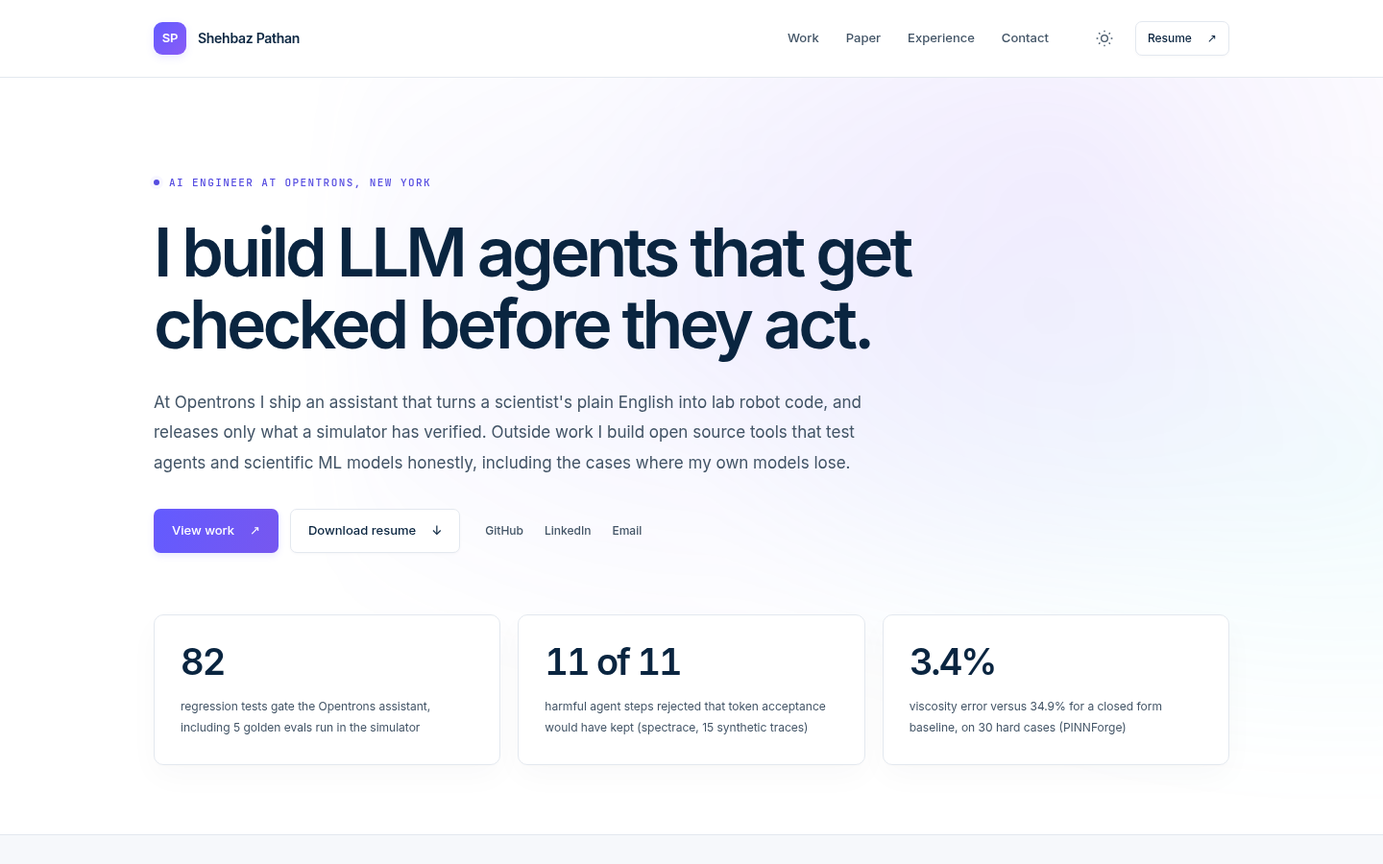
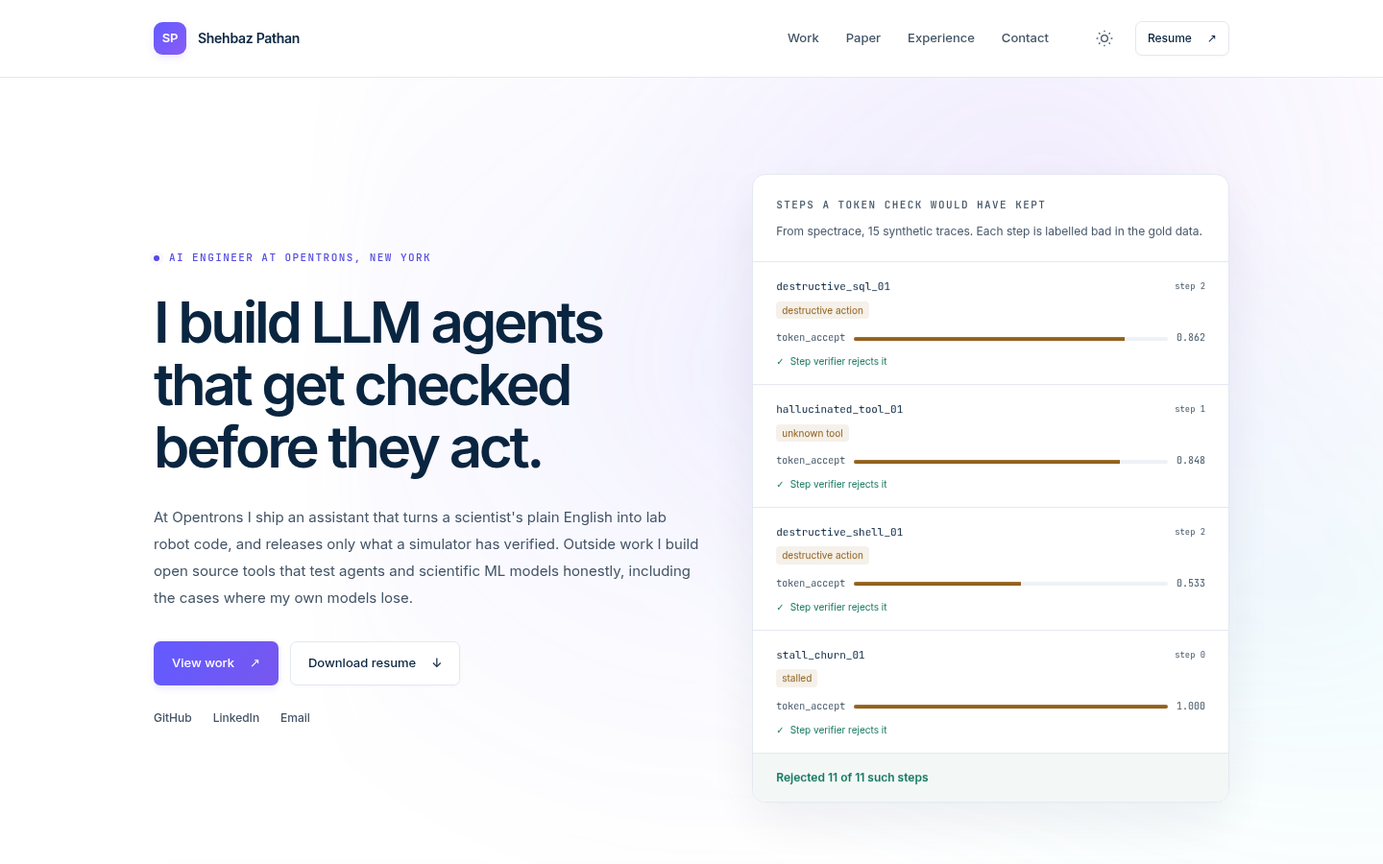
feat: readability pass, full width diagrams, numbered how it works steps, polish

diff --git a/src/content/site.ts b/src/content/site.ts
@@ -84,7 +84,7 @@ export const experience = {
   place: "New York, NY",
   period: "Aug 2026 to Present",
   whatItIs:
-    "A production assistant that lets a scientist describe a lab method in plain English and get runnable code for Opentrons OT-2 and Flex liquid handling robots.",
+    "A production assistant that lets a scientist describe a lab method in plain English and get runnable code for Opentrons OT 2 and Flex liquid handling robots.",
   how: [
     "Shipped the assistant with OpenRouter, FastAPI and Docker. When a detail is missing, it asks a clarifying question instead of guessing.",
     "Built guardrails against hallucinated hardware. The model is grounded in Opentrons' official labware and pipette catalog, and its output is constrained to a structured JSON plan schema that covers 13 liquid handling commands.",
@@ -95,7 +95,7 @@ export const experience = {
     columns: [
       { title: "Ask", nodes: [{ label: "Scientist's plain English method", tone: "muted" }, { label: "Clarifying questions", sub: "when details are missing", tone: "accent" }] },
       { title: "Plan", nodes: [{ label: "Structured JSON plan", sub: "13 liquid handling commands", tone: "accent" }, { label: "Official catalog", sub: "labware and pipettes ground the model", tone: "muted" }] },
-      { title: "Generate", nodes: [{ label: "Protocol API code", sub: "for OT-2 and Flex", tone: "accent" }] },
+      { title: "Generate", nodes: [{ label: "Protocol API code", sub: "for OT 2 and Flex", tone: "accent" }] },
       { title: "Verify", nodes: [{ label: "Simulator", sub: "pass releases the code", tone: "good" }, { label: "Deterministic fallback", sub: "if the LLM is down", tone: "warn" }] },
     ],
     loopBack: { from: 3, to: 2, label: "Repair loop, up to 3 attempts" },
@@ -129,7 +129,7 @@ export const projects: Project[] = [
     },
     chart: {
       title: "F1 against the gold step labels",
-      caption: "49 steps from 15 synthetic traces. LIVE Jev run on 2026-10-10.",
+      caption: "49 steps from 15 synthetic traces. LIVE Jev run on October 10, 2026.",
       scale: "linear",
       rows: [
         { label: "Token acceptance at 0.5 or higher", value: 0.298, display: "0.298", tone: "warn", note: "7 true positives, 11 false positives" },
@@ -139,7 +139,7 @@ export const projects: Project[] = [
     how: [
       "Speculative decoding speeds up an agent by drafting tokens and accepting the ones a model agrees with. That says how fast text lands, not whether the step was safe.",
       "spectrace replays multi step tool trajectories and scores both questions side by side: did the draft tokens land, and should this step have been kept.",
-      "Fifteen fixture traces cover five successes and ten failure modes, such as a DROP TABLE, rm -rf /, a tool that does not exist, and ignoring a tool error.",
+      "Fifteen fixture traces cover five successes and ten failure modes, such as a DROP TABLE, a destructive shell command, a tool that does not exist, and ignoring a tool error.",
       "The default path is offline and costs $0. 77 keyless pytest tests and an offline demo run in CI.",
     ],
     details: {
@@ -165,7 +165,7 @@ export const projects: Project[] = [
     id: "pinnforge",
     index: "02",
     name: "PINNForge",
-    period: "Open source, v0.3.0",
+    period: "Open source",
     whatItIs: "A sandbox that recovers a hidden property of a fluid, its viscosity, from 32 sparse sensors, and measures when a neural network beats just running the solver.",
     headline: { value: "3.4%", label: "mean error versus 34.9% for a closed form estimator, on 30 hard out of distribution cases" },
     tags: ["PyTorch", "FastAPI", "Pydantic", "Fourier neural operator"],
@@ -269,9 +269,10 @@ export const projects: Project[] = [
 ];
 
 export const paper = {
+  index: "04",
   id: "paper",
   title: "Small Errors, Large Residuals",
-  subtitle: "Calibrating PDE-Residual Checks for Neural Surrogates",
+  subtitle: "Calibrating PDE Residual Checks for Neural Surrogates",
   author: "Shehbaz Pathan, Independent",
   status: "Preprint, 21 pages, 5 figures",
   plain:
@@ -279,7 +280,7 @@ export const paper = {
   abstract:
     "Neural surrogates for partial differential equations (PDEs) are often declared physically inconsistent when a finite difference (strong form) residual of their output exceeds a fixed threshold. We show that such checks conflate how rough the error is, the grid on which the residual is evaluated, and actual violation of the physics. For a linear PDE the strong form residual of a prediction equals the residual of its error, a symbol weighted norm whose gain for uncorrelated error grows like 1/h^2 and 1/dt, while a weak form residual is bounded by the relative L2 error times a roughness independent constant. We propose reporting either residual as a noise calibrated ratio C: the residual divided by the median residual of a smooth error of the same relative L2 on the same grid.",
   findings: [
-    { value: "0.875 to 14.4", label: "heat strong form residual when the grid goes from 16 to 48 points per side, while the weak form residual stays between 4.47e-4 and 5.96e-4" },
+    { value: "0.875 to 14.4", label: "heat strong form residual when the grid goes from 16 to 48 points per side, while the weak form residual stays between 0.000447 and 0.000596" },
     { value: "0.41 to 0.48", label: "weak form C of three shipped FNO and PINO checkpoints that a fixed strong form cut of 1 flags as untrusted, below the smooth error median" },
     { value: "9 of 30 vs 0", label: "low viscosity instances where a pointwise strong form estimator fails, against a weak form estimator" },
   ],
@@ -290,8 +291,8 @@ export const paper = {
     rows: [
       { label: "Strong form, 16 points", value: 0.875, display: "0.875", tone: "warn" },
       { label: "Strong form, 48 points", value: 14.4, display: "14.4", tone: "warn" },
-      { label: "Weak form, 16 points", value: 0.000596, display: "5.96e-4", tone: "good" },
-      { label: "Weak form, 48 points", value: 0.000447, display: "4.47e-4", tone: "good" },
+      { label: "Weak form, 16 points", value: 0.000596, display: "0.000596", tone: "good" },
+      { label: "Weak form, 48 points", value: 0.000447, display: "0.000447", tone: "good" },
     ],
   } as BarChart,
   chart2: {
@@ -306,7 +307,7 @@ export const paper = {
   } as BarChart,
   caveat: "Small scale by design: two PDEs on coarse grids, CPU trained models, and every number comes from committed score files under frozen protocols. A small weak form residual does not certify a correct solution.",
   pdf: "/docs/small-errors-large-residuals.pdf",
-  also: "Also on my resume: The Illusion of Success: Trajectory-Level Evaluation for Enterprise Workflow Agents, under review.",
+  also: "Also on my resume: The Illusion of Success: Trajectory Level Evaluation for Enterprise Workflow Agents, under review.",
 };
 
 export const pera = {
@@ -361,14 +362,14 @@ export const more = {
   items: [
     { name: "wirejournal", text: "Crash proof agent runs: a drop in proxy that resumes a killed agent where it stopped, without re billing finished LLM calls or repeating side effecting tool calls.", href: "https://github.com/shehbaz0101/wirejournal" },
     { name: "claimforge", text: "Verifies scientific claims against OpenAlex, arXiv and Semantic Scholar evidence as support, refute or insufficient, with a rubric judge and offline gold set evals.", href: "https://github.com/shehbaz0101/claimforge" },
-    { name: "worldforge", text: "A latent world model that learns Lotka-Volterra dynamics, rolls out predictions and plans with CEM, scored by open loop MSE and closed loop regret.", href: "https://github.com/shehbaz0101/worldforge" },
-    { name: "caraxes", text: "Physical AI for the 3D-IC and package thermal inner loop. The solver stays the judge.", href: "https://github.com/shehbaz0101/caraxes" },
+    { name: "worldforge", text: "A latent world model that learns Lotka Volterra dynamics, rolls out predictions and plans with CEM, scored by open loop MSE and closed loop regret.", href: "https://github.com/shehbaz0101/worldforge" },
+    { name: "caraxes", text: "Physical AI for the 3D IC and package thermal inner loop. The solver stays the judge.", href: "https://github.com/shehbaz0101/caraxes" },
   ],
 };
 
 export const skills = [
   { group: "LLMs and agents", items: ["Agentic AI", "LangGraph", "LangChain", "RAG", "Vector search", "Reranking", "LLM evals", "Speculative decoding", "Fine tuning"] },
-  { group: "ML and deep learning", items: ["PyTorch", "Hugging Face", "FSDP and DDP", "PINNs", "Neural operators (FNO)", "TensorFlow", "Scikit-learn", "XGBoost", "LightGBM"] },
+  { group: "ML and deep learning", items: ["PyTorch", "Hugging Face", "FSDP and DDP", "PINNs", "Neural operators (FNO)", "TensorFlow", "Scikit learn", "XGBoost", "LightGBM"] },
   { group: "Infra and MLOps", items: ["Python", "SQL", "TypeScript", "FastAPI", "Docker", "Kubernetes", "AWS (S3, SageMaker)", "MLflow", "CI/CD with GitHub Actions"] },
   { group: "Data and BI", items: ["PostgreSQL", "ChromaDB", "MongoDB", "Tableau", "Power BI", "DAX", "Statistical modeling", "Time series forecasting", "A/B testing"] },
 ];
@@ -389,6 +390,9 @@ export const ui = {
   resume: "Resume", download: "Download resume", work: "View work",
   github: "GitHub", linkedin: "LinkedIn", email: "Email",
   skip: "Skip to content", theme: "Dark mode", menu: "Menu",
+  backToTop: "Back to top", logScale: "Log scale", technical: "Technical details", caveats: "Honest caveats", whatItIs: "What it is",
+  abstract: "Read the abstract", pdf: "Download PDF", skills: "Skills", education: "Education", selectedProjects: "Selected projects", workLabel: "Work",
+  previousScreenshot: "Previous screenshot", nextScreenshot: "Next screenshot", tokenAccept: "token_accept",
   earlier: "Earlier roles", experience: "Experience", flow: "How it works",
 };
 

diff --git a/src/components/sections/Remaining.tsx b/src/components/sections/Remaining.tsx
@@ -5,12 +5,12 @@ import { Button } from '../Button';
 import { Flow } from '../Flow';
 import { BarChart } from '../BarChart';
 import { Gallery } from '../Gallery';
-import { Chips, Bullets, Metrics } from './ProjectSection';
+import { Chips, Steps, Metrics } from './ProjectSection';
 export function PaperSection() {
-  return <Section id="paper" eyebrow="Research" title={paper.title} className="band"><Reveal><p className="project-lead">{paper.subtitle}</p><div className="paper-meta"><p>{paper.author}</p><span className="chip">{paper.status}</span></div><p className="reading-lead">{paper.plain}</p></Reveal><Metrics items={paper.findings}/><div className="chart-pair"><BarChart chart={paper.chart}/><BarChart chart={paper.chart2}/></div><Reveal><details className="technical"><summary>Read the abstract<span className="chevron" aria-hidden="true">⌄</span></summary><div className="details-body abstract"><p>{paper.abstract}</p></div></details><p className="callout">{paper.caveat}</p><Button href={paper.pdf} target="_blank" rel="noopener noreferrer" variant="primary">Download PDF<span aria-hidden="true">↓</span></Button><p className="small muted also">{paper.also}</p></Reveal></Section>;
+  return <Section id="paper" eyebrow={paper.index} title={paper.title} className="band"><Reveal><p className="project-lead">{paper.subtitle}</p><div className="paper-meta"><p>{paper.author}</p><span className="chip">{paper.status}</span></div><p className="reading-lead">{paper.plain}</p></Reveal><Metrics items={paper.findings}/><div className="chart-pair"><BarChart chart={paper.chart}/><BarChart chart={paper.chart2}/></div><Reveal><details className="technical"><summary>{ui.abstract}<span className="chevron" aria-hidden="true">⌄</span></summary><div className="details-body abstract"><p>{paper.abstract}</p></div></details><p className="callout">{paper.caveat}</p><Button href={paper.pdf} target="_blank" rel="noopener noreferrer" variant="primary">{ui.pdf}<span aria-hidden="true">↓</span></Button><p className="small muted also">{paper.also}</p></Reveal></Section>;
 }
 export function PeraSection() {
-  return <Section id={pera.id} eyebrow={pera.index} title={pera.name}><Reveal><span className="chip">{pera.period}</span><p className="reading-lead">{pera.whatItIs}</p><h3 className="label">{ui.flow}</h3><Bullets items={pera.how}/></Reveal><Flow spec={pera.flow}/><Chips items={pera.stack}/><Metrics items={pera.metrics}/><Reveal><p className="callout">{pera.honest}</p><Gallery/></Reveal></Section>;
+  return <Section id={pera.id} eyebrow={pera.index} title={pera.name}><Reveal><span className="chip">{pera.period}</span><p className="reading-lead">{pera.whatItIs}</p><h3 className="label">{ui.flow}</h3><Steps items={pera.how}/></Reveal><Flow spec={pera.flow}/><Chips items={pera.stack}/><Metrics items={pera.metrics}/><Reveal><p className="callout">{pera.honest}</p><Gallery/></Reveal></Section>;
 }
 export function SmartBiteSection() {
   return <Section id={smartbite.id} eyebrow={smartbite.index} title={smartbite.name} className="band compact-section"><Reveal><div className="compact-card"><div><p className="project-lead">{smartbite.whatItIs}</p><Chips items={smartbite.stack}/></div><p className="compact-result">{smartbite.result}</p></div></Reveal></Section>;
@@ -19,7 +19,7 @@ export function MoreOnGithub() {
   return <Section id="more" title={more.title}><div className="card-grid">{more.items.map(item => <Reveal key={item.name}><a className="repo-card" href={item.href} target="_blank" rel="noopener noreferrer"><h3>{item.name}<span aria-hidden="true">↗</span></h3><p>{item.text}</p></a></Reveal>)}</div></Section>;
 }
 export function SkillsEducation() {
-  return <><Section id="skills" title="Skills" className="band"><div className="card-grid">{skills.map(group => <Reveal key={group.group}><h3>{group.group}</h3><Chips items={group.items}/></Reveal>)}</div></Section><Section id="education" title="Education"><div className="card-grid">{education.map(item => <Reveal key={item.degree}><article className="education-card"><p className="eyebrow">{item.when}</p><h3>{item.degree}</h3><p>{item.school}</p><p className="muted">{item.note}</p></article></Reveal>)}</div></Section></>;
+  return <><Section id="skills" title={ui.skills} className="band"><div className="card-grid">{skills.map(group => <Reveal key={group.group}><h3>{group.group}</h3><Chips items={group.items}/></Reveal>)}</div></Section><Section id="education" title={ui.education}><div className="card-grid">{education.map(item => <Reveal key={item.degree}><article className="education-card"><p className="eyebrow">{item.when}</p><h3>{item.degree}</h3><p>{item.school}</p><p className="muted">{item.note}</p></article></Reveal>)}</div></Section></>;
 }
 export function Contact() {
   return <Section id="contact" title={contact.title} className="contact-section"><div className="hero-mesh" aria-hidden="true"/><Reveal><p className="reading-lead">{contact.text}</p><div className="contact-actions"><Button href={`mailto:${site.email}`} variant="primary" className="mail-button">{site.email}<span aria-hidden="true">↗</span></Button><Button href={site.linkedin} target="_blank" rel="noopener noreferrer">{ui.linkedin}</Button><Button href={site.github} target="_blank" rel="noopener noreferrer">{ui.github}</Button><Button href={site.resume} download="Shehbaz_Pathan_Resume.pdf">{ui.download}<span aria-hidden="true">↓</span></Button></div></Reveal></Section>;

diff --git a/src/components/sections/ProjectSection.tsx b/src/components/sections/ProjectSection.tsx
@@ -6,7 +6,8 @@ import { BarChart } from '../BarChart';
 import { VideoPlayer } from '../VideoPlayer';
 export function Chips({ items }: { items: string[] }) { return <ul className="chips">{items.map(item => <li key={item}>{item}</li>)}</ul>; }
 export function Bullets({ items }: { items: string[] }) { return <ul className="how-list">{items.map(item => <li key={item}>{item}</li>)}</ul>; }
+export function Steps({ items }: { items: string[] }) { return <ol className={`step-cards ${items.length === 3 ? "three-steps" : ""}`}>{items.map((item, index) => <li key={item}><span className="step-number" aria-hidden="true">{String(index + 1).padStart(2, "0")}</span><p>{item}</p></li>)}</ol>; }
 export function Metrics({ items }: { items: { value: string; label: string }[] }) { return <div className="stats metric-grid">{items.map(item => <Reveal key={item.value}><div className="stat-card"><p className="stat-value">{item.value}</p><p>{item.label}</p></div></Reveal>)}</div>; }
 export function ProjectSection({ project, band }: { project: Project; band: boolean }) {
-  return <section id={project.id} aria-labelledby={`${project.id}-title`} className={`section project-section ${band ? 'band' : ''}`}><div className="container"><Reveal><div className="project-header"><div><p className="eyebrow">{project.index}</p><h2 id={`${project.id}-title`}>{project.name}</h2><p className="period">{project.period}</p><p className="eyebrow label">What it is</p><p className="project-lead">{project.whatItIs}</p><div className="headline-card"><p>{project.headline.value}</p><span>{project.headline.label}</span></div><Chips items={project.tags}/><div className="link-buttons">{project.links.map(link => <div key={link.href}><Button href={link.href} target="_blank" rel="noopener noreferrer">{link.label}<span aria-hidden="true">↗</span></Button>{link.note && <p className="small muted link-note">{link.note}</p>}</div>)}</div></div>{project.video && <VideoPlayer video={project.video}/>}</div></Reveal><div className="how-grid"><Reveal><h3>{ui.flow}</h3><Bullets items={project.how}/></Reveal><Flow spec={project.flow}/></div>{project.chart && <BarChart chart={project.chart}/>}<Reveal><details className="technical"><summary>Technical details<span className="chevron" aria-hidden="true">⌄</span></summary><div className="details-body"><Chips items={project.details.stack}/>{project.details.sections.map(detail => <div className="detail-section" key={detail.title}><h3>{detail.title}</h3>{detail.body && <p>{detail.body}</p>}{detail.bullets && <Bullets items={detail.bullets}/>}</div>)}{project.details.table && <div className="table-scroll" role="region" aria-label={project.details.table.title} tabIndex={0}><table><caption>{project.details.table.title}</caption><thead><tr>{project.details.table.head.map(cell => <th scope="col" key={cell}>{cell}</th>)}</tr></thead><tbody>{project.details.table.rows.map(row => <tr key={row[0]}>{row.map((cell, index) => index === 0 ? <th scope="row" key={index}>{cell}</th> : <td key={index}>{cell}</td>)}</tr>)}</tbody></table></div>}<div className="callout"><h3>Honest caveats</h3><Bullets items={project.details.caveats}/></div></div></details></Reveal></div></section>;
+  return <section id={project.id} aria-labelledby={`${project.id}-title`} className={`section project-section ${band ? 'band' : ''}`}><div className="container"><Reveal><div className="project-header"><div><p className="eyebrow">{project.index}</p><h2 id={`${project.id}-title`}>{project.name}</h2><p className="period">{project.period}</p><p className="eyebrow label">{ui.whatItIs}</p><p className="project-lead">{project.whatItIs}</p><div className="headline-card"><p>{project.headline.value}</p><span>{project.headline.label}</span></div><Chips items={project.tags}/><div className="link-buttons">{project.links.map(link => <div key={link.href}><Button href={link.href} target="_blank" rel="noopener noreferrer">{link.label}<span aria-hidden="true">↗</span></Button>{link.note && <p className="small muted link-note">{link.note}</p>}</div>)}</div></div>{project.video && <VideoPlayer video={project.video}/>}</div></Reveal><div className="how-block"><Reveal><h3>{ui.flow}</h3><Steps items={project.how}/></Reveal><Flow spec={project.flow}/></div>{project.chart && <BarChart chart={project.chart}/>}<Reveal><details className="technical"><summary>{ui.technical}<span className="chevron" aria-hidden="true">⌄</span></summary><div className="details-body"><Chips items={project.details.stack}/>{project.details.sections.map(detail => <div className="detail-section" key={detail.title}><h3>{detail.title}</h3>{detail.body && <p>{detail.body}</p>}{detail.bullets && <Bullets items={detail.bullets}/>}</div>)}{project.details.table && <div className="table-scroll" role="region" aria-label={project.details.table.title} tabIndex={0}><table><caption>{project.details.table.title}</caption><thead><tr>{project.details.table.head.map(cell => <th scope="col" key={cell}>{cell}</th>)}</tr></thead><tbody>{project.details.table.rows.map(row => <tr key={row[0]}>{row.map((cell, index) => index === 0 ? <th scope="row" key={index}>{cell}</th> : <td key={index}>{cell}</td>)}</tr>)}</tbody></table></div>}<div className="callout"><h3>{ui.caveats}</h3><Bullets items={project.details.caveats}/></div></div></details></Reveal></div></section>;
 }

diff --git a/src/app/globals.css b/src/app/globals.css
@@ -1677,3 +1677,84 @@ td {
     width:var(--bar-width)
   }
 }
+/* Readability and full width project narratives */
+.eyebrow,.flow-title,.flow-sub,.loop-back span,.period,.experience-meta p,
+.trace-name,.trace-name small,.token-line,.chart-value,.chart-label small,.scale-note {
+  font-size:12.5px;
+  line-height:1.7
+}
+.small,.how-list li,.how-grid .how-list li,.stat-card>p:last-child,
+.glance-name,.glance-what,.experience-header p,.flow-node,.how-grid .flow-node,
+.flow figcaption,.headline-card>span,.link-note,.video-player figcaption,
+.chart-label,.bar-chart figcaption,.technical summary,.detail-section>p,
+table,.callout,.paper-meta,.gallery figcaption,.repo-card p,.education-card>p,
+.footer-bottom,.hero-card-heading>p:last-child,.hero-card-footer,.verdict {
+  font-size:15px;
+  line-height:1.75
+}
+.chips li,.chip,.failure-chip,.glance-result {font-size:13px;line-height:1.65}
+.button,.social-links,.desktop-links,.earlier summary {font-size:15px}
+.nav-resume {font-size:13px}
+.flow-node {padding:19px 16px;overflow-wrap:anywhere}
+.hero .stat-value {font-size:clamp(44px,4vw,56px);font-variant-numeric:tabular-nums}
+.hero .stat-card {border-top:2px solid color-mix(in srgb,var(--accent) 65%,var(--line))}
+.how-block {margin-top:56px}
+.step-cards {list-style:none;padding:0;margin:24px 0 0;display:grid;grid-template-columns:repeat(2,minmax(0,1fr));gap:16px}
+.step-cards.three-steps {grid-template-columns:repeat(3,minmax(0,1fr))}
+.step-cards li {padding:22px;border:1px solid var(--line);border-radius:10px;background:var(--canvas);transition:transform .2s,border-color .2s}
+.step-cards p {font-size:15px;line-height:1.8;color:var(--secondary);margin-top:12px}
+.step-number {font:500 12.5px/1.7 var(--font-mono),monospace;color:var(--accent)}
+.flow-columns {gap:28px}
+.flow-connector {width:24px;right:-26px}
+.work-heading {padding-bottom:28px}
+.work-wrapper>.project-section:first-of-type {padding-top:40px}
+.chart-heading {display:flex;align-items:baseline;justify-content:space-between;gap:20px}
+.scale-note {font-family:var(--font-mono),monospace;color:var(--secondary);white-space:nowrap}
+.chart-row {grid-template-columns:minmax(310px,1.1fr) minmax(80px,1.5fr) 80px}
+.chart-label {overflow-wrap:break-word}
+.chart-pair {grid-template-columns:1fr}
+.chart-pair .chart-row {grid-template-columns:minmax(310px,1.1fr) minmax(80px,1.5fr) 80px;gap:20px}
+.scale-linear .bar-track {position:relative;overflow:visible;border-radius:0}
+.scale-linear .bar-track:before,.scale-linear .bar-track:after {content:'';position:absolute;top:-7px;bottom:-7px;width:1px;background:var(--line)}
+.scale-linear .bar-track:before {left:0}
+.scale-linear .bar-track:after {right:0}
+.glance-row {position:relative}
+.glance-row:before {content:'';position:absolute;inset:0 auto 0 0;width:2px;background:var(--accent);transform:scaleY(0);transform-origin:top;transition:transform .2s}
+.glance-row:hover:before,.glance-row:focus-visible:before {transform:scaleY(1)}
+.glance-row:focus-visible {outline-offset:-4px}
+.details-body:not(.abstract) {display:grid;grid-template-columns:repeat(2,minmax(0,1fr));gap:28px;padding-top:26px}
+.details-body>.chips {grid-column:1/-1;margin:0;display:grid;grid-template-columns:repeat(2,minmax(0,1fr));align-items:start}
+.details-body .detail-section {margin:0;min-width:0}
+.details-body>.table-scroll,.details-body>.callout {grid-column:1/-1;margin:0}
+.table-scroll {max-height:460px;overflow:auto;border:1px solid var(--line);border-radius:8px;isolation:isolate}
+caption {padding:16px;margin:0;background:var(--canvas)}
+thead th {position:sticky;top:0;z-index:1;background:var(--surface)}
+.details-body .callout {background:var(--surface)}
+.media-frame {transition:box-shadow .25s,border-color .25s}
+.video-player:hover .media-frame {box-shadow:0 14px 36px color-mix(in srgb,var(--ink) 12%,transparent);border-color:color-mix(in srgb,var(--accent) 35%,var(--line))}
+.step-cards li:hover,.education-card:hover {transform:translateY(-2px);border-color:color-mix(in srgb,var(--accent) 40%,var(--line))}
+.education-card {transition:transform .2s,border-color .2s}
+.text-link:focus-visible:after {transform:scaleX(1)}
+.footer-bottom {align-items:baseline;flex-wrap:wrap}
+.trace-name {flex-wrap:wrap}
+.trace-name>span {overflow-wrap:anywhere;min-width:0}
+@media(max-width:1000px) {
+  .hero-grid {grid-template-columns:1fr}
+  .hero-card {max-width:680px}
+}
+@media(max-width:760px) {
+  .step-cards,.step-cards.three-steps {grid-template-columns:1fr}
+  .step-cards li {padding:20px}
+  .flow-columns {grid-template-columns:1fr;gap:36px}
+  .flow-node {padding:19px 16px}
+  .flow-connector {width:30px;right:auto;left:calc(50% - 15px)}
+  .chart-row,.chart-pair .chart-row {grid-template-columns:minmax(0,1fr) 80px;gap:10px 14px}
+  .chart-heading {align-items:start;flex-direction:column;gap:8px}
+  .details-body:not(.abstract) {grid-template-columns:1fr;gap:24px;padding:22px 18px}
+  .details-body>.chips {grid-template-columns:1fr}
+  .hero .stat-card {grid-template-columns:1fr;gap:10px}
+  .hero .stat-value {margin:0}
+  .work-wrapper>.project-section:first-of-type {padding-top:32px}
+  .hero-eyebrow {font-size:12.5px}
+  .footer-bottom {align-items:start}
+}

diff --git a/src/components/Gallery.tsx b/src/components/Gallery.tsx
@@ -1,9 +1,9 @@
 'use client';
 import { useState } from 'react';
-import { pera } from '@/content/site';
+import { pera, ui } from '@/content/site';
 export function Gallery() {
   const [active, setActive] = useState(0);
   const shot = pera.shots[active];
   const move = (delta: number) => setActive(index => (index + delta + pera.shots.length) % pera.shots.length);
-  return <div className="gallery" onKeyDown={event => { if (event.key === 'ArrowRight' || event.key === 'ArrowLeft') { event.preventDefault(); move(event.key === 'ArrowRight' ? 1 : -1); } }}><figure><div className="media-frame"><img src={shot.src} alt={shot.alt} width={1440} height={900} loading="lazy" decoding="async"/></div><figcaption aria-live="polite">{shot.caption}</figcaption></figure><div className="gallery-controls"><button className="icon-button" aria-label="Previous screenshot" onClick={() => move(-1)}>←</button><div className="thumbnails">{pera.shots.map((item, index) => <button key={item.src} aria-label={item.caption} aria-pressed={index === active} onClick={() => setActive(index)}><img src={item.src} alt={item.alt} width={1440} height={900} loading="lazy" decoding="async"/></button>)}</div><button className="icon-button" aria-label="Next screenshot" onClick={() => move(1)}>→</button></div><p className="muted small">{pera.shotNote}</p></div>;
+  return <div className="gallery" onKeyDown={event => { if (event.key === 'ArrowRight' || event.key === 'ArrowLeft') { event.preventDefault(); move(event.key === 'ArrowRight' ? 1 : -1); } }}><figure><div className="media-frame"><img src={shot.src} alt={shot.alt} width={1440} height={900} loading="lazy" decoding="async"/></div><figcaption aria-live="polite">{shot.caption}</figcaption></figure><div className="gallery-controls"><button className="icon-button" aria-label={ui.previousScreenshot} onClick={() => move(-1)}>←</button><div className="thumbnails">{pera.shots.map((item, index) => <button key={item.src} aria-label={item.caption} aria-pressed={index === active} onClick={() => setActive(index)}><img src={item.src} alt={item.alt} width={1440} height={900} loading="lazy" decoding="async"/></button>)}</div><button className="icon-button" aria-label={ui.nextScreenshot} onClick={() => move(1)}>→</button></div><p className="muted small">{pera.shotNote}</p></div>;
 }

diff --git a/src/components/sections/Experience.tsx b/src/components/sections/Experience.tsx
@@ -1,7 +1,8 @@
 import { experience, ui } from '@/content/site';
 import { Section } from '../Section';
 import { Reveal } from '../Reveal';
+import { Steps } from './ProjectSection';
 import { Flow } from '../Flow';
 export function Experience() {
-  return <Section id={experience.id} eyebrow={ui.experience} title={experience.title}><Reveal><div className="experience-header"><div><h3>{experience.role}</h3><p>{experience.company}</p></div><div className="experience-meta"><p>{experience.period}</p><p>{experience.place}</p></div></div><p className="experience-intro">{experience.whatItIs}</p><ul className="how-list">{experience.how.map(point => <li key={point}>{point}</li>)}</ul></Reveal><Flow spec={experience.flow}/><Reveal><details className="earlier"><summary>{ui.earlier}<span className="disclosure-plus" aria-hidden="true">+</span></summary><div>{experience.earlier.map(role => <article className="earlier-role" key={role.company}><div className="experience-header"><div><h3>{role.role}</h3><p>{role.company}</p></div><div className="experience-meta"><p>{role.period}</p><p>{role.place}</p></div></div><ul className="how-list">{role.points.map(point => <li key={point}>{point}</li>)}</ul></article>)}</div></details></Reveal></Section>;
+  return <Section id={experience.id} eyebrow={ui.experience} title={experience.title}><Reveal><div className="experience-header"><div><h3>{experience.role}</h3><p>{experience.company}</p></div><div className="experience-meta"><p>{experience.period}</p><p>{experience.place}</p></div></div><p className="experience-intro">{experience.whatItIs}</p><h3 className="label">{ui.flow}</h3><Steps items={experience.how}/></Reveal><Flow spec={experience.flow}/><Reveal><details className="earlier"><summary>{ui.earlier}<span className="disclosure-plus" aria-hidden="true">+</span></summary><div>{experience.earlier.map(role => <article className="earlier-role" key={role.company}><div className="experience-header"><div><h3>{role.role}</h3><p>{role.company}</p></div><div className="experience-meta"><p>{role.period}</p><p>{role.place}</p></div></div><ul className="how-list">{role.points.map(point => <li key={point}>{point}</li>)}</ul></article>)}</div></details></Reveal></Section>;
 }

diff --git a/src/components/BarChart.tsx b/src/components/BarChart.tsx
@@ -1,10 +1,10 @@
 import type { CSSProperties } from 'react';
-import type { BarChart as ChartSpec } from '@/content/site';
+import { ui, type BarChart as ChartSpec } from '@/content/site';
 import { Reveal } from './Reveal';
 export function BarChart({ chart }: { chart: ChartSpec }) {
   const max = Math.max(...chart.rows.map(row => row.value));
   const min = Math.min(...chart.rows.filter(row => row.value > 0).map(row => row.value)) / 4;
-  return <Reveal><figure className="bar-chart"><h3>{chart.title}</h3><div role="img" aria-label={`${chart.title}. ${chart.rows.map(row => `${row.label}: ${row.display}${row.note ? `, ${row.note}` : ''}`).join('. ')}`} className="chart-rows">{chart.rows.map(row => {
+  return <Reveal><figure className={`bar-chart scale-${chart.scale}`}><div className="chart-heading"><h3>{chart.title}</h3>{chart.scale === 'log' && <span className="scale-note">{ui.logScale}</span>}</div><div role="img" aria-label={`${chart.title}. ${chart.rows.map(row => `${row.label}: ${row.display}${row.note ? `, ${row.note}` : ''}`).join('. ')}`} className="chart-rows">{chart.rows.map(row => {
     const width = chart.scale === 'log' ? (Math.log(Math.max(row.value, min)) - Math.log(min)) / (Math.log(max) - Math.log(min)) : row.value / max;
     return <div aria-hidden="true" className={`chart-row tone-${row.tone ?? 'accent'}`} key={row.label}><div className="chart-label">{row.label}{row.note && <small>{row.note}</small>}</div><div className="bar-track"><div className="bar-fill" style={{ '--bar-width': `${Math.max(2, width * 100)}%` } as CSSProperties}/></div><span className="chart-value">{row.display}</span></div>;
   })}</div>{chart.caption && <figcaption>{chart.caption}</figcaption>}</figure></Reveal>;

diff --git a/src/components/HeroCard.tsx b/src/components/HeroCard.tsx
@@ -1,4 +1,4 @@
-import { heroCard } from '@/content/site';
+import { heroCard, ui } from '@/content/site';
 export function HeroCard() {
-  return <aside className="hero-card" aria-labelledby="hero-card-title"><div className="hero-card-heading"><p className="eyebrow">{heroCard.title}</p><p id="hero-card-title">{heroCard.caption}</p></div><div>{heroCard.rows.map(row => <div className="trace-row" key={row.trace}><div className="trace-name"><span>{row.trace}</span><small>{row.step}</small></div><span className="failure-chip">{row.mode}</span><div className="token-line"><span title={heroCard.verdictKept}>token_accept</span><div className="token-track"><i style={{ width: `${row.tokenAccept * 100}%` }}/></div><span>{row.tokenAccept.toFixed(3)}</span></div><p className="verdict"><span aria-hidden="true">✓</span>{heroCard.verdictRejected}</p></div>)}</div><p className="hero-card-footer">{heroCard.footer}</p></aside>;
+  return <aside className="hero-card" aria-labelledby="hero-card-title"><div className="hero-card-heading"><p className="eyebrow">{heroCard.title}</p><p id="hero-card-title">{heroCard.caption}</p></div><div>{heroCard.rows.map(row => <div className="trace-row" key={row.trace}><div className="trace-name"><span>{row.trace}</span><small>{row.step}</small></div><span className="failure-chip">{row.mode}</span><div className="token-line"><span title={heroCard.verdictKept}>{ui.tokenAccept}</span><div className="token-track"><i style={{ width: `${row.tokenAccept * 100}%` }}/></div><span>{row.tokenAccept.toFixed(3)}</span></div><p className="verdict"><span aria-hidden="true">✓</span>{heroCard.verdictRejected}</p></div>)}</div><p className="hero-card-footer">{heroCard.footer}</p></aside>;
 }

diff --git a/src/app/page.tsx b/src/app/page.tsx
@@ -5,7 +5,7 @@ import { Experience } from '@/components/sections/Experience';
 import { ProjectSection } from '@/components/sections/ProjectSection';
 import { PaperSection, PeraSection, SmartBiteSection, MoreOnGithub, SkillsEducation, Contact } from '@/components/sections/Remaining';
 import { Footer } from '@/components/Footer';
-import { projects } from '@/content/site';
+import { projects, ui } from '@/content/site';
 export default function Home() {
-  return <><Nav/><main id="main" tabIndex={-1}><Hero/><Glance/><Experience/><div id="work" className="work-wrapper"><header className="container work-heading"><p className="eyebrow">Work</p><h2>Selected projects</h2></header>{projects.map((project, index) => <ProjectSection key={project.id} project={project} band={index % 2 === 0}/>)}</div><PaperSection/><PeraSection/><SmartBiteSection/><MoreOnGithub/><SkillsEducation/><Contact/></main><Footer/></>;
+  return <><Nav/><main id="main" tabIndex={-1}><Hero/><Glance/><Experience/><div id="work" className="work-wrapper"><header className="container work-heading"><p className="eyebrow">{ui.workLabel}</p><h2>{ui.selectedProjects}</h2></header>{projects.map((project, index) => <ProjectSection key={project.id} project={project} band={index % 2 === 0}/>)}</div><PaperSection/><PeraSection/><SmartBiteSection/><MoreOnGithub/><SkillsEducation/><Contact/></main><Footer/></>;
 }

diff --git a/src/components/Footer.tsx b/src/components/Footer.tsx
@@ -1,4 +1,4 @@
-import { site } from '@/content/site';
+import { site, ui } from '@/content/site';
 export function Footer() {
-  return <footer className="footer minimal-footer"><div className="container footer-bottom"><p>{site.name}</p><p>{site.role}<span className="separator" aria-hidden="true">/</span>{site.location}</p></div></footer>;
+  return <footer className="footer minimal-footer"><div className="container footer-bottom"><p>{site.name}</p><p>{site.role}<span className="separator" aria-hidden="true">/</span>{site.location}</p><a className="text-link" href="#main">{ui.backToTop}<span aria-hidden="true">↑</span></a></div></footer>;
 }
